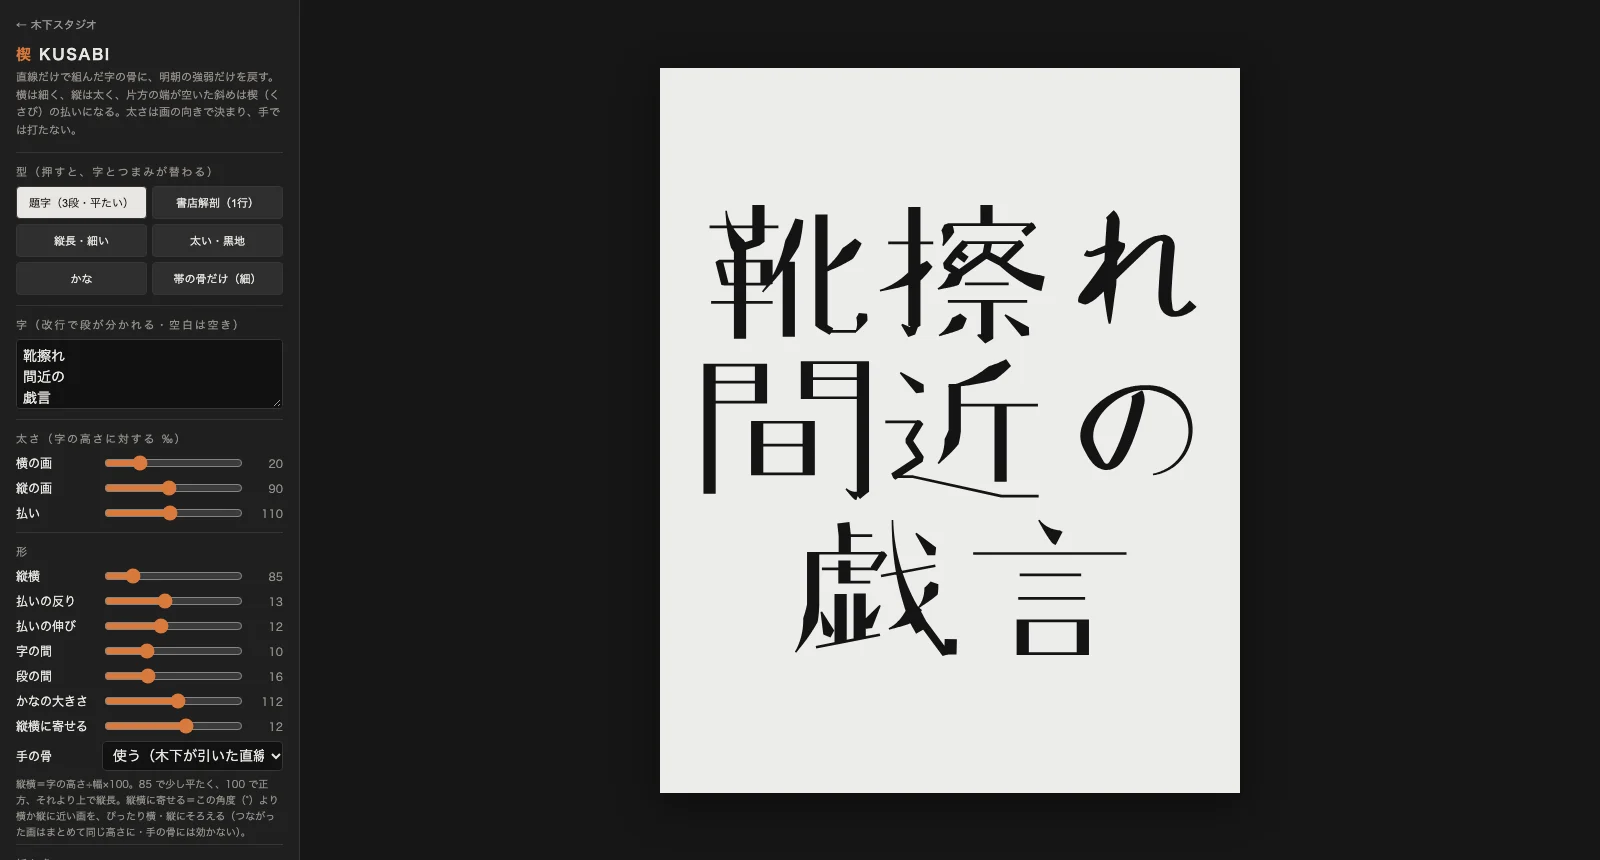
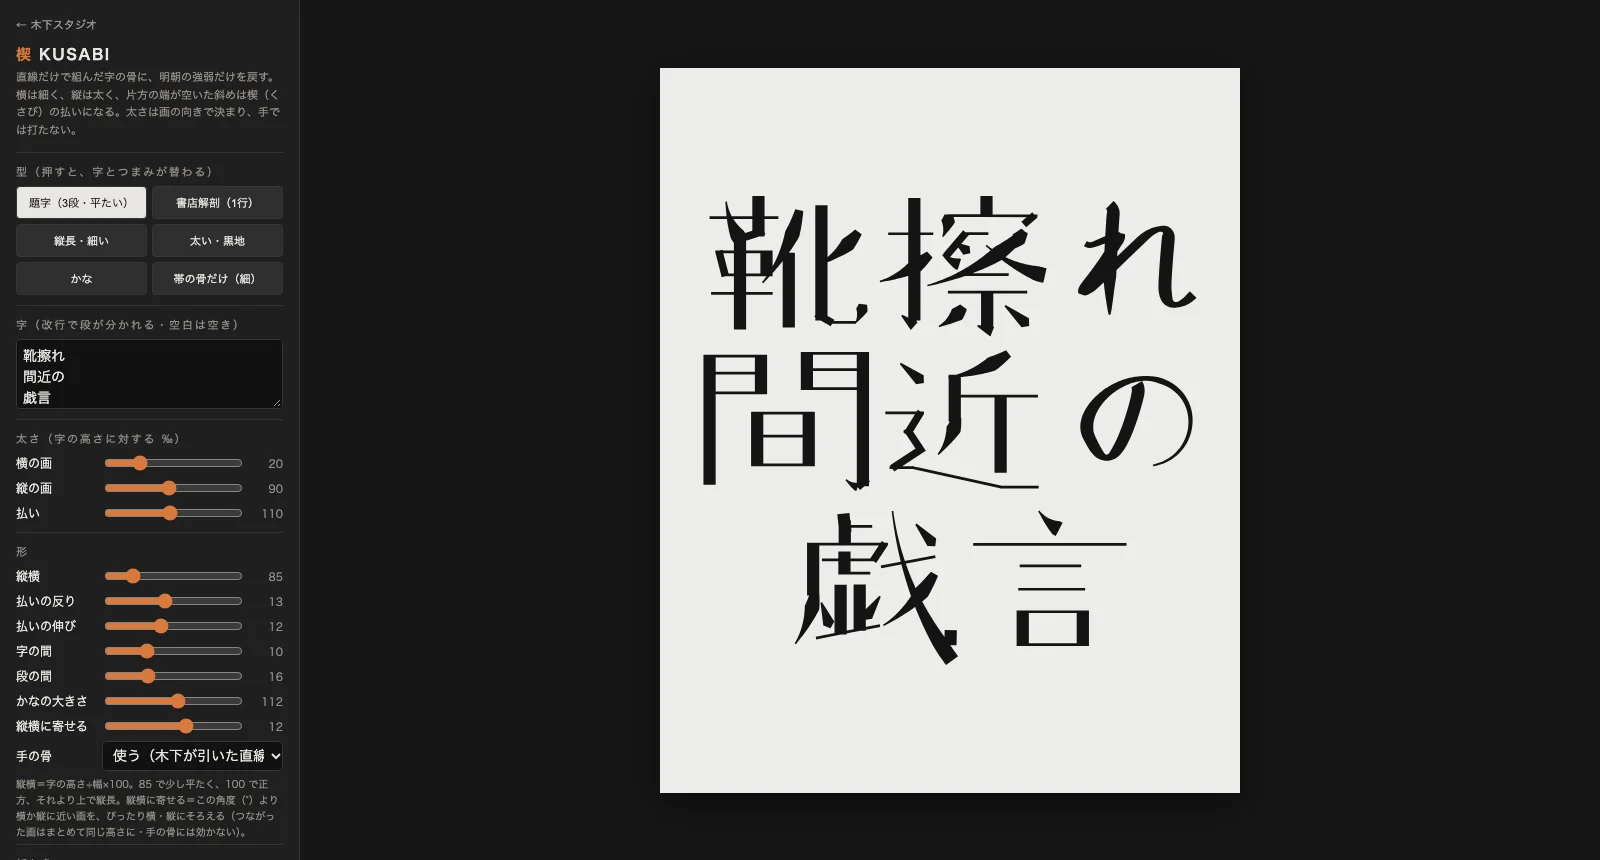
kusabi: 骨の膝をまとめて1本の払いに・継ぎ目は多角形でなく相手の中へ差し込む・はねで幹を突き出さない・SVG の払いとかなを少ないアンカーの曲線に・?t= で字を渡せる

Changed region(s): [[0.4375, 0.2419, 0.75, 0.786], [0.5, 0.6047, 0.5938, 0.7558], [0.7188, 0.3326, 0.75, 0.3628]]

diff --git a/kusabi/index.html b/kusabi/index.html
@@ -184,16 +184,32 @@ function sweep(pa,pb,wa,wb,hw,side,bow,reach,n=48){hw=Math.min(hw,dist(pa,pb)*.3
     const dx=2*(1-t)*(cx-x1)+2*t*(x2-cx),dy=2*(1-t)*(cy-y1)+2*t*(y2-cy),l=Math.hypot(dx,dy)||1;
     const w=side==='左'?(t<.3?wa+(hw-wa)*(t/.3):wb+(hw-wb)*((1-t)/.7)**1.4):wa+(hw-wa)*Math.min(1,t/.88)**1.6;
     P.push([x-dy/l*w,y+dx/l*w]);Q.push([x+dy/l*w,y-dx/l*w])}
-  return P.concat(Q.reverse())}
+  const r=P.concat(Q.reverse());r.smooth=P.length;return r}
 function hullOf(pts){const cx=pts.reduce((s,p)=>s+p[0],0)/pts.length,cy=pts.reduce((s,p)=>s+p[1],0)/pts.length;
   return pts.slice().sort((a,b)=>Math.atan2(a[1]-cy,a[0]-cx)-Math.atan2(b[1]-cy,b[0]-cx))}
 
 function boneGlyph(segs,P,H,o,out){
   const hh=o.th*H/2,hv=o.tv*H/2,hw=o.tw*H/2,hm=(o.th+o.tv)/2*H/2,tip=hh*.6;
-  const key=p=>p[0].toFixed(4)+','+p[1].toFixed(4),deg=new Map();
-  segs.forEach(([a,b,c,d])=>[[a,b],[c,d]].forEach(p=>{const k=key(p);deg.set(k,(deg.get(k)||0)+1)}));
+  const key=p=>p[0].toFixed(4)+','+p[1].toFixed(4);
+  // 0 骨の膝をなくす：2本だけが集まる点で、ほぼ同じ向きに続く（曲がりが小さい・どちらも横縦でない）なら1本の画にまとめる
+  let S=segs.map(([ax,ay,bx,by])=>({a:key([ax,ay]),b:key([bx,by]),pa:P([ax,ay]),pb:P([bx,by])}));
+  for(let guard=0;guard<200;guard++){const d=new Map();S.forEach((s,i)=>[s.a,s.b].forEach(k=>{if(!d.has(k))d.set(k,[]);d.get(k).push(i)}));
+    let done=true;
+    for(const[k,all]of d){if(all.length<2)continue;   // 3本以上の継ぎ目（人の払いの付け根）でも、いちばん素直に続く2本はまとめる＝残りの画はそこから離れる
+      let best=null;
+      for(let x=0;x<all.length;x++)for(let y=x+1;y<all.length;y++){const ix=[all[x],all[y]],[s1,s2]=ix.map(i=>S[i]);
+        const o1=s1.a===k?[s1.b,s1.pb]:[s1.a,s1.pa],o2=s2.a===k?[s2.b,s2.pb]:[s2.a,s2.pa],pk=s1.a===k?s1.pa:s1.pb;
+        const v1=[pk[0]-o1[1][0],pk[1]-o1[1][1]],v2=[o2[1][0]-pk[0],o2[1][1]-pk[1]];
+        const turn=Math.abs(Math.atan2(v1[0]*v2[1]-v1[1]*v2[0],v1[0]*v2[0]+v1[1]*v2[1]))*180/Math.PI;
+        const k1=kind(o1[1],pk),k2=kind(pk,o2[1]),nAx=(k1!=='斜')+(k2!=='斜');   // 横縦どうし＝ほぼまっすぐな時だけ／片方が斜め＝45°まで
+        if(nAx===2&&all.length>2)continue;
+        if(nAx===1){const lA=k1!=='斜'?dist(o1[1],pk):dist(pk,o2[1]),lS=k1!=='斜'?dist(pk,o2[1]):dist(o1[1],pk);if(lA>lS*.6)continue}   // 広の左＝長い縦＋短い払いはまとめない（人の付け根＝短い縦＋長い払いだけ）                                     // 十字・T の横縦はまとめない（継ぎ目のまま）
+        if(turn<[50,45,12][nAx]&&(!best||turn<best.turn))best={ix,o1,o2,turn}}
+      if(best){S=S.filter((_,i)=>!best.ix.includes(i));S.push({a:best.o1[0],b:best.o2[0],pa:best.o1[1],pb:best.o2[1]});done=false;break}}
+    if(done)break}
+  const deg=new Map();S.forEach(s=>[s.a,s.b].forEach(k=>deg.set(k,(deg.get(k)||0)+1)));
   const plan=[];
-  segs.forEach(([ax,ay,bx,by])=>{let a=key([ax,ay]),b=key([bx,by]),pa=P([ax,ay]),pb=P([bx,by]);let ea=deg.get(a)>1,eb=deg.get(b)>1;
+  S.forEach(({a,b,pa,pb})=>{let ea=deg.get(a)>1,eb=deg.get(b)>1;
     const k=kind(pa,pb),L=dist(pa,pb);
     if(k==='横'){plan.push([a,b,pa,pb,hh,hh,false]);return}
     if(k==='縦'){plan.push([a,b,pa,pb,hv,hv,false]);return}
@@ -202,15 +218,18 @@ function boneGlyph(segs,P,H,o,out){
     if(pa[1]>pb[1]){[a,b,pa,pb,ea,eb]=[b,a,pb,pa,eb,ea]}
     if(!ea&&!eb&&L<.2*H){plan.push([a,b,pa,pb,tip,Math.min(hv*.95,L*.42),'点']);return}
     if(pb[0]<pa[0])plan.push([a,b,pa,pb,hw*.55,tip,'左']);else plan.push([a,b,pa,pb,ea?hh:tip,hw,'右'])});
-  const at=new Map();plan.forEach(([a,b,pa,pb,ha,hb],i)=>{const k=kind(pa,pb);[[a,ha],[b,hb]].forEach(([q,w])=>{if(!at.has(q))at.set(q,[]);at.get(q).push([i,w,k])})});
-  const ext=(q,i)=>{if(deg.get(q)<2)return[0,false];const A=at.get(q),ks=new Set(A.map(x=>x[2]));
-    if(A.length===2&&ks.size===2&&ks.has('横')&&ks.has('縦'))return[A.find(x=>x[0]!==i)[1],false];return[0,true]};
+  const at=new Map();plan.forEach(([a,b,pa,pb,ha,hb,cut],i)=>{const k=cut==='左'||cut==='右'||cut==='はね'?'払':kind(pa,pb);[[a,ha],[b,hb]].forEach(([q,w])=>{if(!at.has(q))at.set(q,[]);at.get(q).push([i,w,k])})});
+  // 1 継ぎ目：多角形で埋めず、画を相手の太さぶん相手の中へ差し込む（相手の形の中で重なる＝外に角が出ない）
+  //   斜めどうし（払いでない）が2本以上集まる所だけ、端の角を結んだ面で埋める
+  const ext=(q,i)=>{if(deg.get(q)<2)return[0,false];const A=at.get(q),oth=A.filter(x=>x[0]!==i&&(x[2]!=='払'||plan[i][6]));   // 幹は払い・はねの側へは伸ばさない（はねの所で幹が突き出さない）
+    return[Math.max(0,...oth.map(x=>x[1])),A.filter(x=>x[2]==='斜').length>=2]};
   const hulls=new Map(),addH=(q,pts)=>{if(!hulls.has(q))hulls.set(q,[]);hulls.get(q).push(...pts)};
+  const back=(p,q,e)=>{const l=dist(p,q)||1;return[p[0]-(q[0]-p[0])/l*e,p[1]-(q[1]-p[1])/l*e]};
   plan.forEach(([a,b,pa,pb,ha,hb,cut],i)=>{const[xa,fa]=ext(a,i),[xb,fb]=ext(b,i);
-    if(cut==='左'||cut==='右'){if(fa)ha=Math.max(ha,...at.get(a).filter(x=>x[0]!==i).map(x=>x[1]));
-      const q=sweep(pa,pb,ha,hb,Math.max(hw,ha),cut,o.bow,dist(pa,pb)>.3*H?o.reach:0);out.push(q);if(fa)addH(a,[q[0],q[q.length-1]]);return}
+    if(cut==='左'||cut==='右'){const p0=xa?back(pa,pb,xa*.9):pa;
+      out.push(sweep(p0,pb,ha,hb,Math.max(hw,ha),cut,o.bow,dist(pa,pb)>.3*H?o.reach:0));return}
     if(cut==='点'){const q=stroke(pa,pb,ha,hb,0,0);out.push(q);const l=dist(pa,pb),ux=(pb[0]-pa[0])/l,uy=(pb[1]-pa[1])/l;out.push([q[1],[pb[0]+ux*hb*.9,pb[1]+uy*hb*.9],q[2]]);return}
-    if(cut==='はね'){const q=stroke(pa,pb,ha,hb,0,0);out.push(q);addH(a,[q[0],q[3]]);return}
+    if(cut==='はね'){out.push(stroke(pa,pb,ha,hb,xa*.9,0));return}
     const q=stroke(pa,pb,ha,hb,xa,xb,cut);out.push(q);if(fa)addH(a,[q[0],q[3]]);if(fb)addH(b,[q[1],q[2]])});
   hulls.forEach(p=>out.push(hullOf(p)))}
 
@@ -233,7 +252,7 @@ function kanaGlyph(strokes,P,H,o,out){
       const b0=S[1],b1=S[0];
       if(freeA&&(b1[1]-b0[1])>0&&(b1[0]-b0[0])<0&&tot>H*.12){const m=Math.floor(S.length*.35);for(let k=0;k<m;k++)W[k]=tip+(W[m]-tip)*(k/m)**.8}
       const Lf=[],Rt=[];S.forEach((p,k)=>{const a=S[Math.max(0,k-1)],b=S[Math.min(S.length-1,k+1)],l=dist(a,b)||1,nx=-(b[1]-a[1])/l,ny=(b[0]-a[0])/l;Lf.push([p[0]+nx*W[k],p[1]+ny*W[k]]);Rt.push([p[0]-nx*W[k],p[1]-ny*W[k]])});
-      out.push(Lf.concat(Rt.reverse()));const R=Rt.slice().reverse();
+      {const r=Lf.concat(Rt.reverse());r.smooth=Lf.length;out.push(r)}const R=Rt.slice().reverse();
       if(!freeA)hull.push([cuts[c],[Lf[0],R[0]]]);if(!freeB)hull.push([cuts[c+1],[Lf[Lf.length-1],R[R.length-1]]])}
     const by=new Map();hull.splice(0).forEach(([i,p])=>{if(!by.has(i))by.set(i,[]);by.get(i).push(...p)});by.forEach(p=>out.push(hullOf(p)))})}
 
@@ -253,7 +272,7 @@ async function layout(){
   let x0=1e9,y0=1e9,x1=-1e9,y1=-1e9;polys.forEach(p=>p.forEach(([x,y])=>{x0=Math.min(x0,x);y0=Math.min(y0,y);x1=Math.max(x1,x);y1=Math.max(y1,y)}));
   if(!polys.length){x0=y0=0;x1=y1=100}
   // 向きをそろえる（全部を1つの道で塗る＝合体して見える・継ぎ目にすき間が出ない）
-  polys.forEach(p=>{let a=0;for(let i=0;i<p.length;i++){const q=p[i],r=p[(i+1)%p.length];a+=q[0]*r[1]-r[0]*q[1]}if(a<0)p.reverse()});
+  polys.forEach(p=>{let a=0;for(let i=0;i<p.length;i++){const q=p[i],r=p[(i+1)%p.length];a+=q[0]*r[1]-r[0]*q[1]}if(a<0){p.reverse();if(p.smooth)p.smooth=p.length-p.smooth}});
   return{polys,bb:[x0,y0,x1,y1],miss}}
 function paperOf(L){const[x0,y0,x1,y1]=L.bb,bw=x1-x0,bh=y1-y0,M=v('margin')*2,p=$('paper').value;
   if(p==='fit')return{W:bw+2*M,H:bh+2*M,dx:M-x0,dy:M-y0};
@@ -305,7 +324,13 @@ function svgText(){const L=LAST,P=paperOf(L),f=n=>Math.round(n*10)/10,W=f(P.W),H
   let s=`<?xml version="1.0" encoding="UTF-8"?>\n<svg xmlns="http://www.w3.org/2000/svg" viewBox="0 0 ${W} ${H}" width="${f(W/4)}" height="${f(H/4)}">\n`;
   s+=`<metadata id="kusabi-data">${JSON.stringify(settings()).replace(/&/g,'&amp;').replace(/</g,'&lt;')}</metadata>\n`;
   if($('bg').value==='on')s+=`<rect id="地" width="${W}" height="${H}" fill="${$('c0').value}"/>\n`;
-  s+=`<path id="字" fill="${$('c1').value}" fill-rule="nonzero" d="`+L.polys.map(p=>'M'+p.map(([x,y])=>f(x+P.dx)+' '+f(y+P.dy)).join('L')+'Z').join('')+`"/>\n`;
+  const X=p=>f(p[0]+P.dx)+' '+f(p[1]+P.dy);
+  const run=pts=>{if(pts.length<3)return pts.slice(1).map(p=>'L'+X(p)).join('');
+    const step=Math.max(1,Math.round(pts.length/7)),q=[];for(let i=0;i<pts.length-1;i+=step)q.push(pts[i]);q.push(pts[pts.length-1]);
+    let d='';for(let i=0;i<q.length-1;i++){const p0=q[Math.max(0,i-1)],p1=q[i],p2=q[i+1],p3=q[Math.min(q.length-1,i+2)];
+      d+='C'+X([p1[0]+(p2[0]-p0[0])/6,p1[1]+(p2[1]-p0[1])/6])+' '+X([p2[0]-(p3[0]-p1[0])/6,p2[1]-(p3[1]-p1[1])/6])+' '+X(p2)}return d};
+  const one=p=>{if(!p.smooth)return'M'+p.map(X).join('L')+'Z';const A=p.slice(0,p.smooth),B=p.slice(p.smooth);return'M'+X(A[0])+run(A)+'L'+X(B[0])+run(B)+'Z'};
+  s+=`<path id="字" fill="${$('c1').value}" fill-rule="nonzero" d="`+L.polys.map(one).join('')+`"/>\n`;
   return s+'</svg>\n'}
 $('svg').onclick=()=>{if(!LAST)return;save(new Blob([svgText()],{type:'image/svg+xml'}),fname('svg'));msg('SVG を書き出した（字全体で1つの塗り）')};
 $('jsave').onclick=()=>save(new Blob([JSON.stringify(settings(),null,1)],{type:'application/json'}),fname('json'));
@@ -313,6 +338,6 @@ $('jload').onclick=()=>$('jfile').click();
 $('jfile').onchange=e=>{const f=e.target.files[0];if(!f)return;f.text().then(t=>{try{applySettings(JSON.parse(t));msg('設定を読んだ')}catch(_){alert('この設定は読めませんでした')}});e.target.value=''};
 window.addEventListener('resize',later);
 window.__kusabi={render,settings,applySettings,svgText,layout,get last(){return LAST}};
-{const q=+new URLSearchParams(location.search).get('p');(pb.children[q]||pb.children[0]).click()}
+{const U=new URLSearchParams(location.search),q=+U.get('p');(pb.children[q]||pb.children[0]).click();if(U.get('t')){$('txt').value=U.get('t');$('paper').value='fit';later()}}
 </script>
 </body></html>
